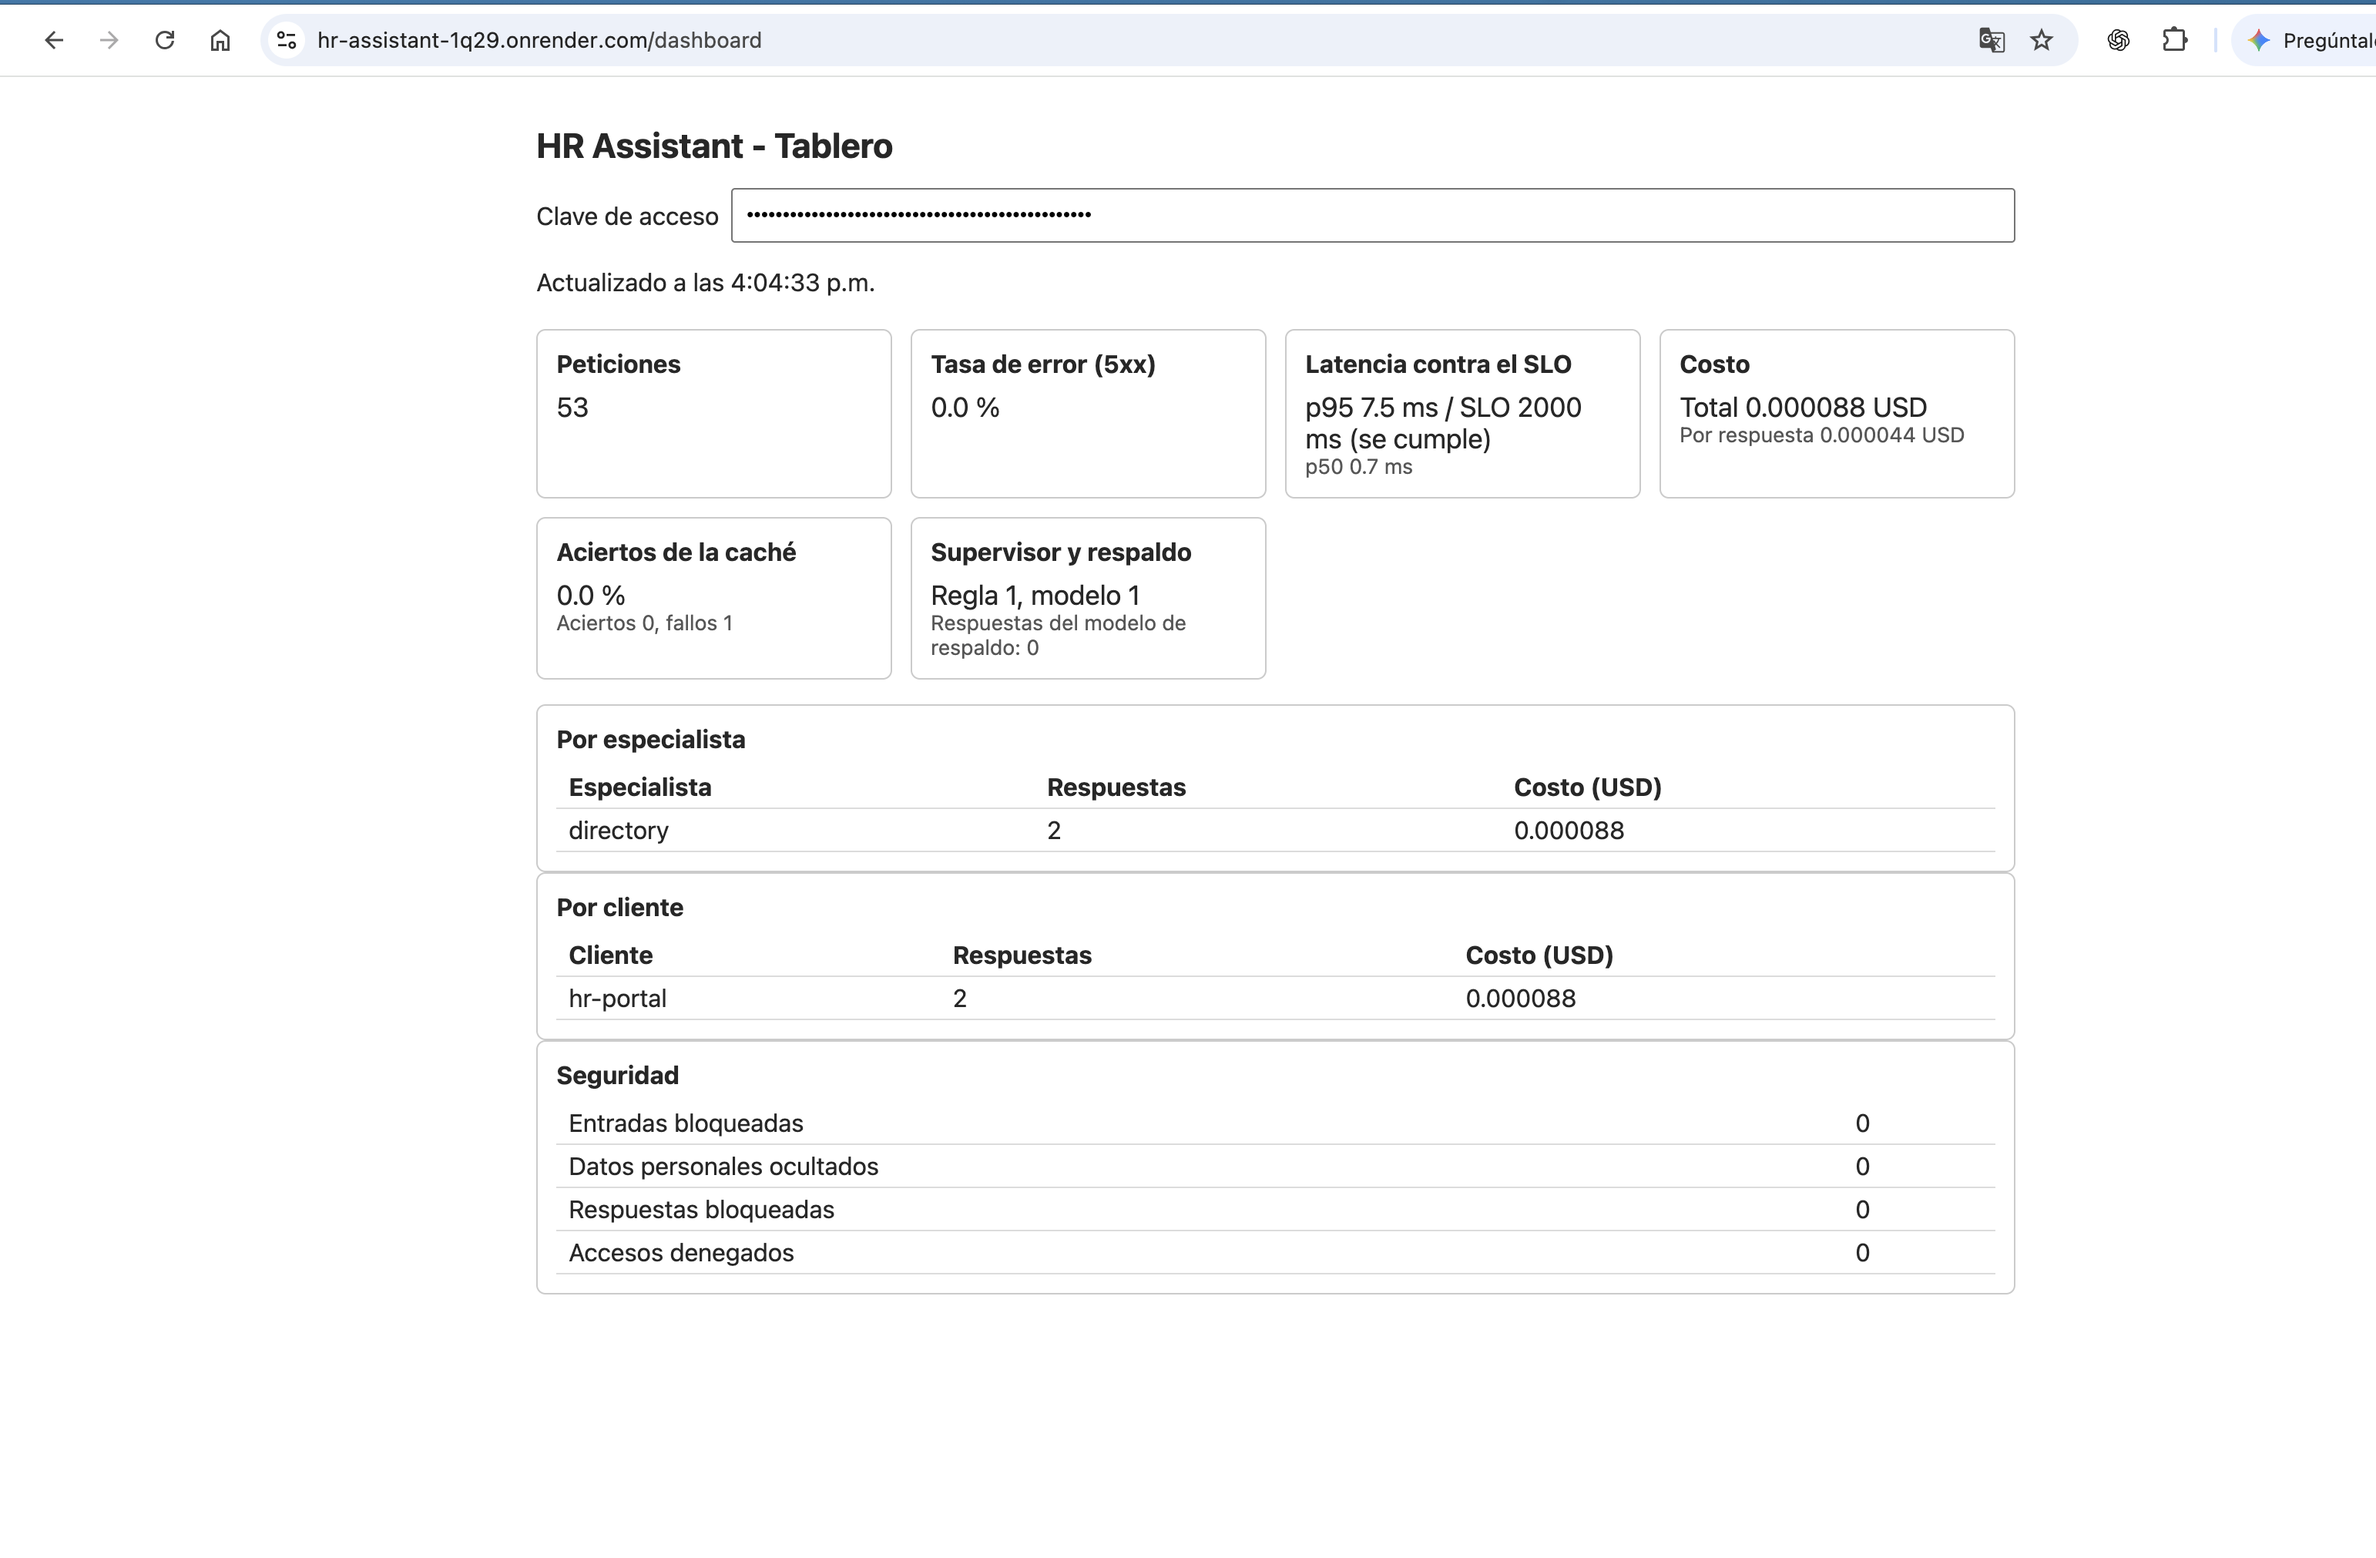
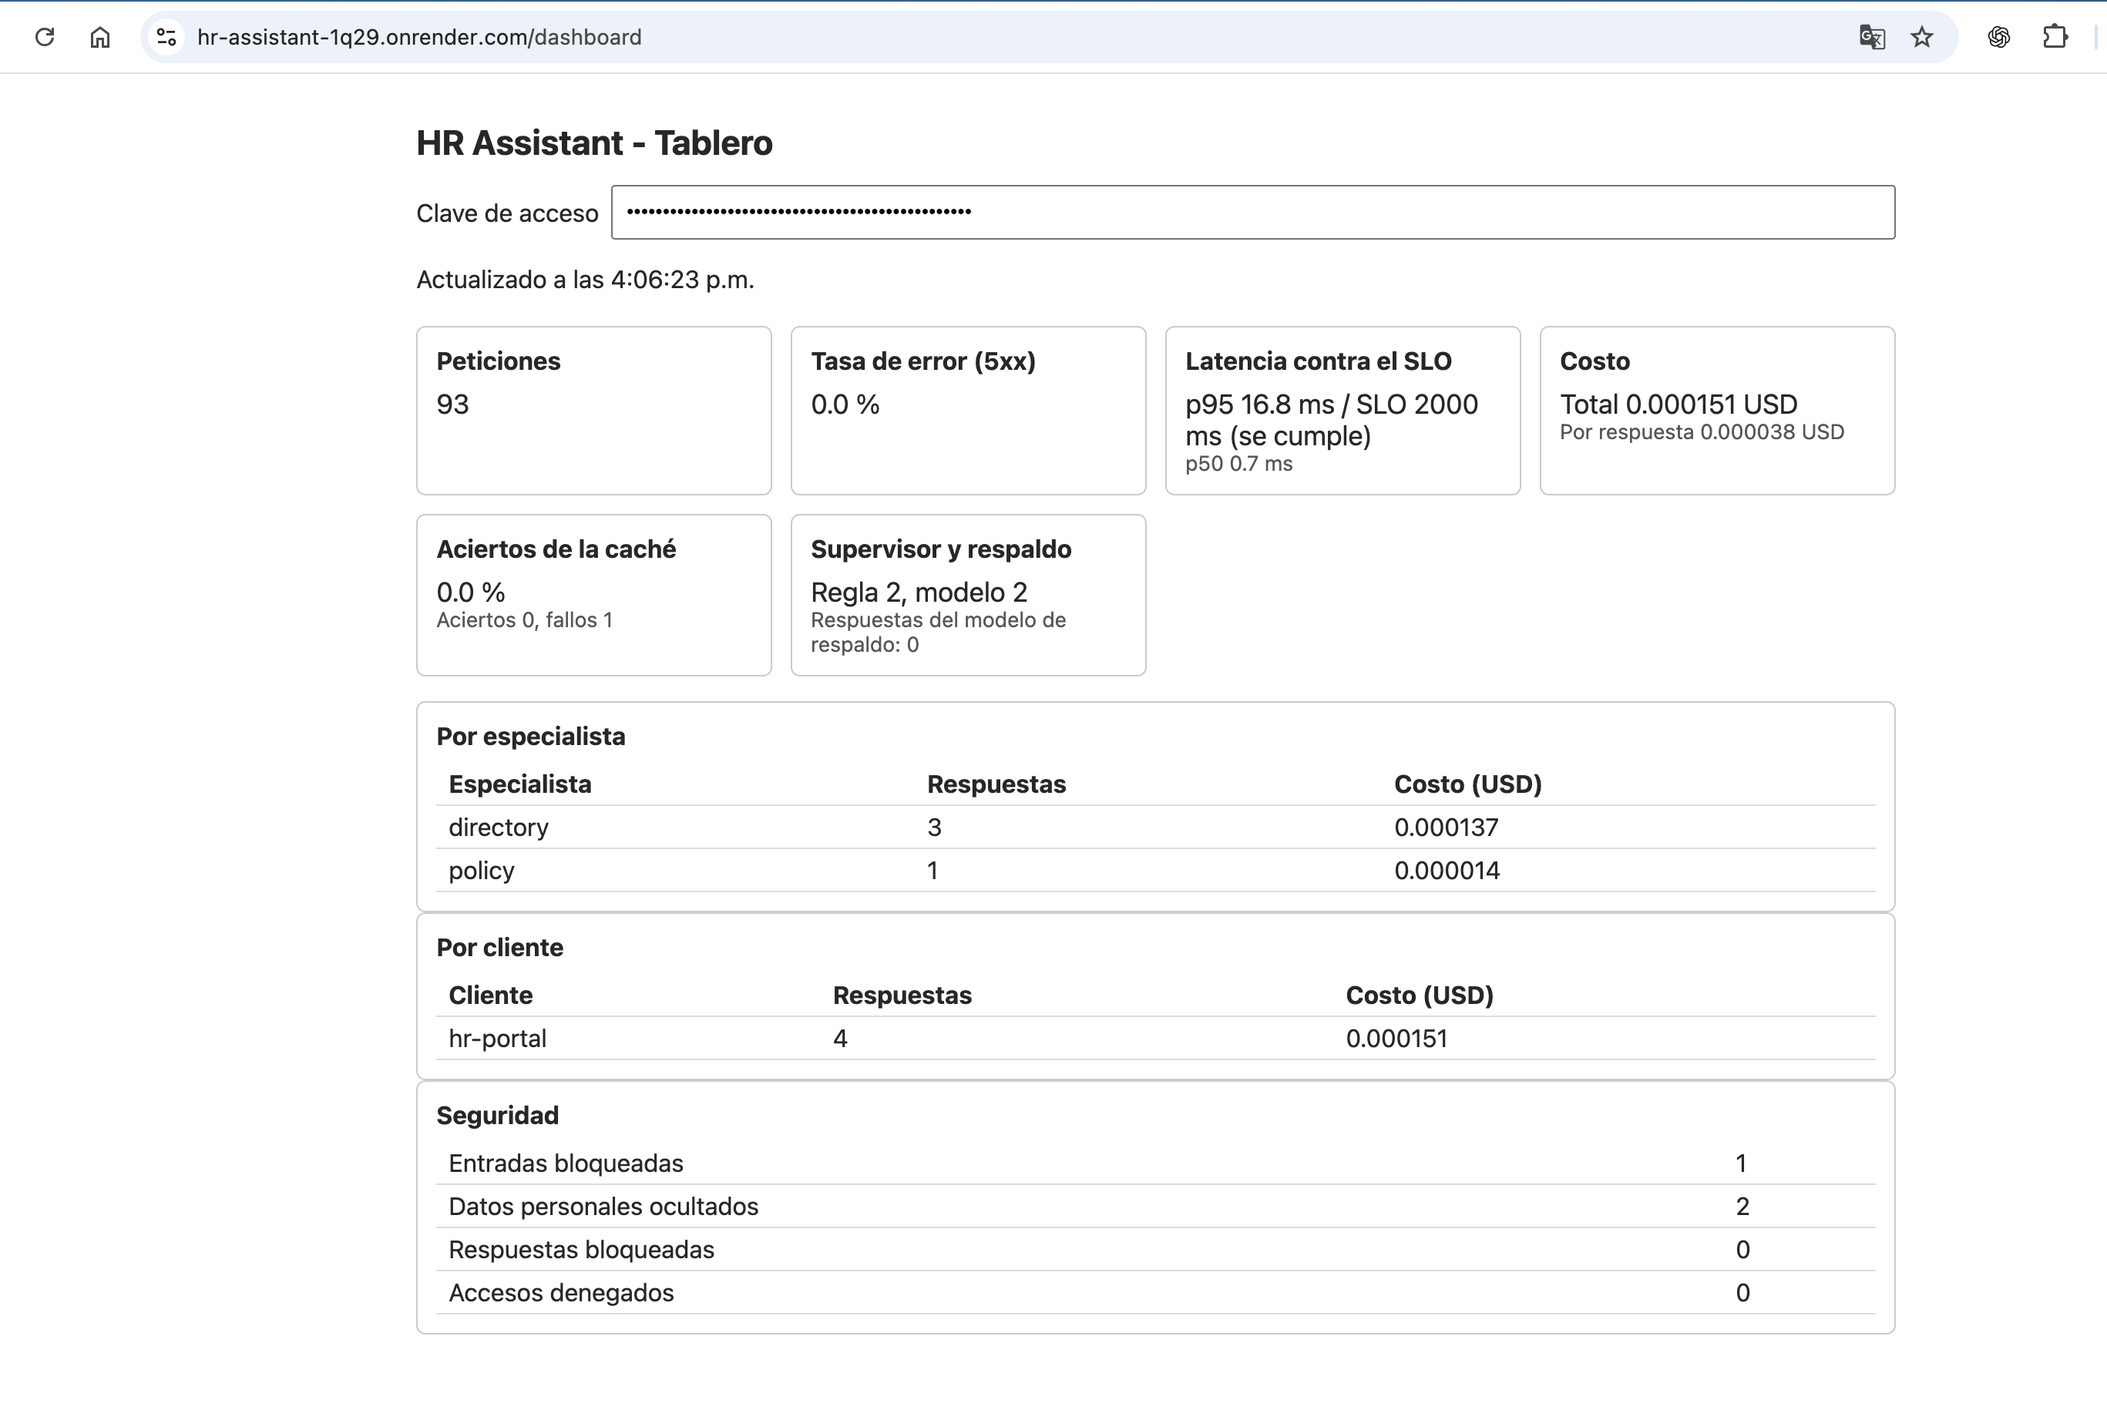
Adenda 2 de la spec: políticas ancladas al texto (encontrado en producción)
Claude-Session: https://claude.ai/code/session_01WG7efHEcGy1Qq3g1zhGo7i

diff --git a/spec/05-reto.md b/spec/05-reto.md
@@ -56,6 +56,17 @@ Nada de lo anterior se rompe: las pruebas y contratos de las sesiones 1 a 4 sigu
      pude verificar la respuesta con el directorio. Intenta de nuevo.». Si la persona preguntó por un id que no
      existe, la respuesta puede decirlo (por ejemplo «EMP-0099 no existe»), como en las sesiones anteriores.
      *(Adenda: la primera versión bloqueaba también ese caso y rompía la respuesta de la sesión 1.)*
+   - **Políticas ancladas al texto.** *(Adenda 2, encontrada en producción el 2026-11-19: con el modelo real, a «Soy
+     [EMAIL], ¿cuántos días de vacaciones tengo?» el especialista `policy` no pidió `search_policy` y respondió «5
+     días»; la política dice 12.)* Dos reglas:
+     - Cuando el supervisor elige `policy` por una regla de palabra clave, el especialista recibe **en código** el
+       texto de esa política (el mismo que devolvería `search_policy`) antes de llamar al modelo, como un mensaje que
+       empieza con «Resultado de la herramienta: », y `tools_used` incluye `search_policy`. El modelo ya no decide si
+       consultar la política.
+     - Si la respuesta del especialista `policy` contiene una cifra (secuencia de dígitos) que no aparece en el texto
+       de ninguna política consultada en esa petición, el revisor la reemplaza por el texto de la política consultada.
+       Si no se consultó ninguna política, la reemplaza por «No pude verificar la respuesta con las políticas.
+       Intenta de nuevo.». Cuenta como respuesta bloqueada en `/metrics`.
    - Recorta la respuesta a `MAX_ANSWER_CHARS` caracteres.
 4. **Resiliencia.**
    - El modelo `gateway` reintenta hasta `MODEL_RETRIES` veces ante timeout, `429` o `5xx`, con espera exponencial
